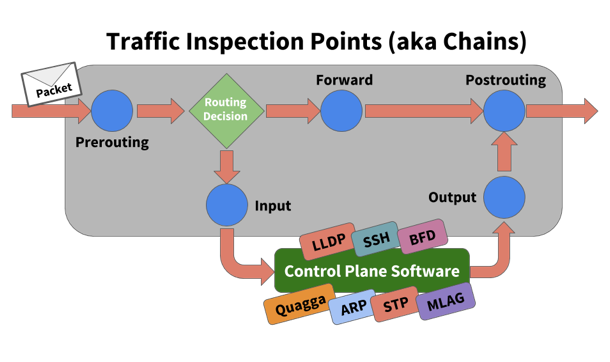
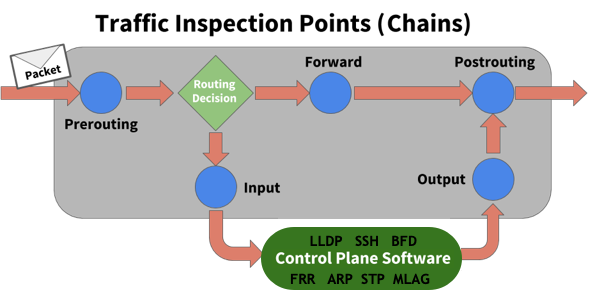
updates

diff --git a/content/cumulus-linux-50/System-Configuration/Netfilter-ACLs/_index.md b/content/cumulus-linux-50/System-Configuration/Netfilter-ACLs/_index.md
@@ -13,19 +13,17 @@ toc: 3
 
 ### Chains
 
-Netfilter describes the mechanism for which packets are classified and controlled in the Linux kernel. Cumulus Linux uses the Netfilter framework to control the flow of traffic to, from, and across the switch. Netfilter does not require a separate software daemon to run; it is part of the Linux kernel itself. Netfilter asserts policies at layers 2, 3 and 4 of the {{<exlink url="https://en.wikipedia.org/wiki/OSI_model" text="OSI model">}} by inspecting packet and frame headers based on a list of rules. Rules are defined using syntax provided by the `iptables`, `ip6tables` and `ebtables` userspace applications.
+Netfilter describes the way that packets are classified and controlled in the Linux kernel. Cumulus Linux uses the Netfilter framework to control the flow of traffic to, from, and across the switch. Netfilter does not require a separate software daemon to run; it is part of the Linux kernel itself. Netfilter asserts policies at layers 2, 3 and 4 of the {{<exlink url="https://en.wikipedia.org/wiki/OSI_model" text="OSI model">}} by inspecting packet and frame headers based on a list of rules. Rules are defined using syntax provided by the `iptables`, `ip6tables` and `ebtables` userspace applications.
 
-The rules created by these programs inspect or operate on packets at several points in the life of the packet through the system. These five points are known as *chains* and are shown here:
+The rules created by these programs inspect or operate on packets at several points in the life of the packet through the system. These points are known as *chains*:
 
 {{< img src = "/images/cumulus-linux/acl-chains.png" >}}
-
-The chains and their uses are:
 
 - **PREROUTING** touches packets before they are routed
 - **INPUT** touches packets after they are determined to be destined for the local system but before they are received by the control plane software
 - **FORWARD** touches transit traffic as it moves through the switch
 - **OUTPUT** touches packets that are sourced by the control plane software before they are put on the wire
-- **POSTROUTING** touches packets immediately before they are put on the wire but after the routing decision has been made
+- **POSTROUTING** touches packets immediately before they are put on the wire but after the routing decision is made
 
 ### Tables
 
@@ -45,7 +43,7 @@ Each table has a set of default chains that can be used to modify or inspect pac
 
 ### Rules
 
-Rules are the items that actually classify traffic to be acted upon. Rules are applied to chains, which are attached to tables, similar to the graphic below.
+Rules are the items that classify traffic to be acted upon. Rules are applied to chains, which are attached to tables, similar to the graphic below.
 
 {{< img src = "/images/cumulus-linux/acl-tables-chains-rules.png" >}}
 
@@ -53,11 +51,11 @@ Rules have several different components; the examples below highlight those diff
 
 {{< img src = "/images/cumulus-linux/acl-anatomy-rule.png" >}}
 
-- **Table:** The first argument is the *table*. Notice the second example does not specify a table, that is because the filter table is implied if a table is not specified.
-- **Chain:** The second argument is the *chain*. Each table supports several different chains. See Understanding Tables above.
-- **Matches:** The third argument(s) are called the *matches*. You can specify multiple matches in a single rule. However, the more matches you use in a rule, the more memory that rule consumes.
+- **Table:** The first argument is the *table*. The second example does not specify a table; the filter table is implied if a table is not specified.
+- **Chain:** The second argument is the *chain*. Each table supports several different chains. See {{<link url="#tables" text="Tables">}} above.
+- **Matches:** The third argument is the *match*. You can specify multiple matches in a single rule. However, the more matches you use in a rule, the more memory that rule consumes.
 - **Jump:** The *jump* specifies the target of the rule; what action to take if the packet matches the rule. If this option is omitted in a rule, then matching the rule has no effect on the fate of the packet, but the counters on the rule are incremented.
-- **Target(s):** The *target* can be a user-defined chain (other than the one this rule is in), one of the special built-in targets that decides the fate of the packet immediately (like DROP), or an extended target. See the {{<link url="#supported-rule-types" text="Supported Rule Types">}} section below for examples of different targets.
+- **Targets:** The *target* can be a user-defined chain (other than the one this rule is in), one of the special built-in targets that decides the fate of the packet immediately (like DROP), or an extended target. See {{<link url="#supported-rule-types" text="Supported Rule Types">}} below for different target examples.
 
 ### How Rules Are Parsed and Applied
 
@@ -83,7 +81,7 @@ The Linux packet forwarding construct is an overlay for how the silicon undernea
 If multiple contiguous rules with the same match criteria are applied to `--in-interface`, **only** the first rule gets processed and then processing terminates. Do not configure duplicate rules with different actions.
     {{%/notice%}}
 
-- When processing traffic, rules affecting the FORWARD chain that specify an ingress interface are performed prior to rules that match on an egress interface. As a workaround, rules that only affect the egress interface can have an ingress interface wildcard (currently, only *swp+* and *bond+* are supported as wildcard names; see below) that matches any interface applied so that you can maintain order of operations with other input interface rules. For example, with the following rules:
+- When processing traffic, rules affecting the FORWARD chain that specify an ingress interface are performed before rules that match on an egress interface. As a workaround, rules that only affect the egress interface can have an ingress interface wildcard (only *swp+* and *bond+* are supported) that matches any interface applied so that you can maintain order of operations with other input interface rules. For example, with the following rules:
 
     ```
     -A FORWARD -i $PORTA -j ACCEPT
@@ -95,7 +93,7 @@ If multiple contiguous rules with the same match criteria are applied to `--in-i
 
     ```
     -A FORWARD -i $PORTA -j ACCEPT
-    -A FORWARD -i swp+ -o $PORTA -j ACCEPT   <-- These rules are performed in order (because of wildcard match on ingress interface)
+    -A FORWARD -i swp+ -o $PORTA -j ACCEPT   <-- These rules are performed in order (because of wildcard match on the ingress interface)
     -A FORWARD -i $PORTB -j DROP
     ```
 
@@ -135,19 +133,15 @@ In Cumulus Linux, *atomic update mode* is enabled by default. However, this mode
 
 {{< img src = "/images/cumulus-linux/acl-update-operation-atomic.png" >}}
 
-To increase the number of ACL rules that can be configured, configure the switch to operate in *nonatomic mode*.
+To increase the number of configurable ACL rules, configure the switch to operate in *nonatomic mode*.
 
 {{< img src = "/images/cumulus-linux/acl-update-operation-nonatomic.png" >}}
-
-### How the Rules Get Installed
 
 Instead of reserving 50% of your TCAM space for atomic updates, incremental update uses the available free space to write the new TCAM rules and swap over to the new rules after this is complete. Cumulus Linux then deletes the old rules and frees up the original TCAM space. If there is insufficient free space to complete this task, the original nonatomic update is performed, which interrupts traffic.
 
 {{< img src = "/images/cumulus-linux/acl-update-del.png" >}}
 
 {{< img src = "/images/cumulus-linux/acl-update-add.png" >}}
-
-#### Enable Nonatomic Update Mode
 
 You can enable nonatomic updates for `switchd`, which offer better scaling because all TCAM resources are used to actively impact traffic. With atomic updates, half of the hardware resources are on standby and do not actively impact traffic.
 
@@ -187,13 +181,13 @@ During regular *non-incremental nonatomic updates*, traffic is stopped first, th
 
 Using `iptables`, `ip6tables`, `ebtables` directly is not recommended because any rules installed in these cases only are applied to the Linux kernel and are not hardware accelerated using synchronization to the switch silicon. Running `cl-acltool -i` (the installation command) resets all rules and deletes anything that is not stored in `/etc/cumulus/acl/policy.conf`.
 
-For example, performing:
+For example, the following rule appears to work:
 
 ```
 cumulus@switch:~$ sudo iptables -A INPUT -p icmp --icmp-type echo-request -j DROP
 ```
 
-Appears to work, and the rule appears when you run `cl-acltool -L`:
+The rule appears when you run `cl-acltool -L`:
 
 ```
 cumulus@switch:~$ sudo cl-acltool -L ip
@@ -241,7 +235,7 @@ By default, each entry occupies one double wide entry, except if the entry is on
 
    {{%notice note%}}
 Port ranges are only allowed for ingress rules.
-    {{%/notice%}}
+{{%/notice%}}
 
 ### Match on VLAN IDs on Layer 2 Interfaces
 
@@ -331,10 +325,6 @@ This deletes all rules from the `50_nclu_acl.rules` file with that name. It also
 ## Install and Manage ACL Rules with cl-acltool
 
 You can manage Cumulus Linux ACLs with `cl-acltool`. Rules are first written to the `iptables` chains, as described above, and then synchronized to hardware via `switchd`.
-
-{{%notice note%}}
-Use `iptables`/`ip6tables`/`ebtables` and `cl-acltool` to manage rules in the default files, `00control_plane.rules` and `99control_plane_catch_all.rules`; they are not aware of rules created using NCLU.
-{{%/notice%}}
 
 To examine the current state of chains and list all installed rules, run:
 
@@ -517,9 +507,7 @@ If the maximum number of rules for a particular table is exceeded, `cl-acltool -
 error: hw sync failed (sync_acl hardware installation failed) Rolling back .. failed.
 ```
 
-In the tables below, the default rules count toward the limits listed. The raw limits below assume only one ingress and one egress table are present.
-
-### NVIDIA Spectrum Limits
+In the table below, the default rules count toward the limits listed. The raw limits below assume only one ingress and one egress table are present.
 
 The NVIDIA Spectrum ASIC has one common {{<exlink url="https://en.wikipedia.org/wiki/Content-addressable_memory#Ternary_CAMs" text="TCAM">}} for both ingress and egress, which can be used for other non-ACL-related resources. However, the number of supported rules varies with the {{<link url="Supported-Route-Table-Entries#tcam-resource-profiles-for-spectrum-switches" text="TCAM profile">}} specified for the switch.
 
